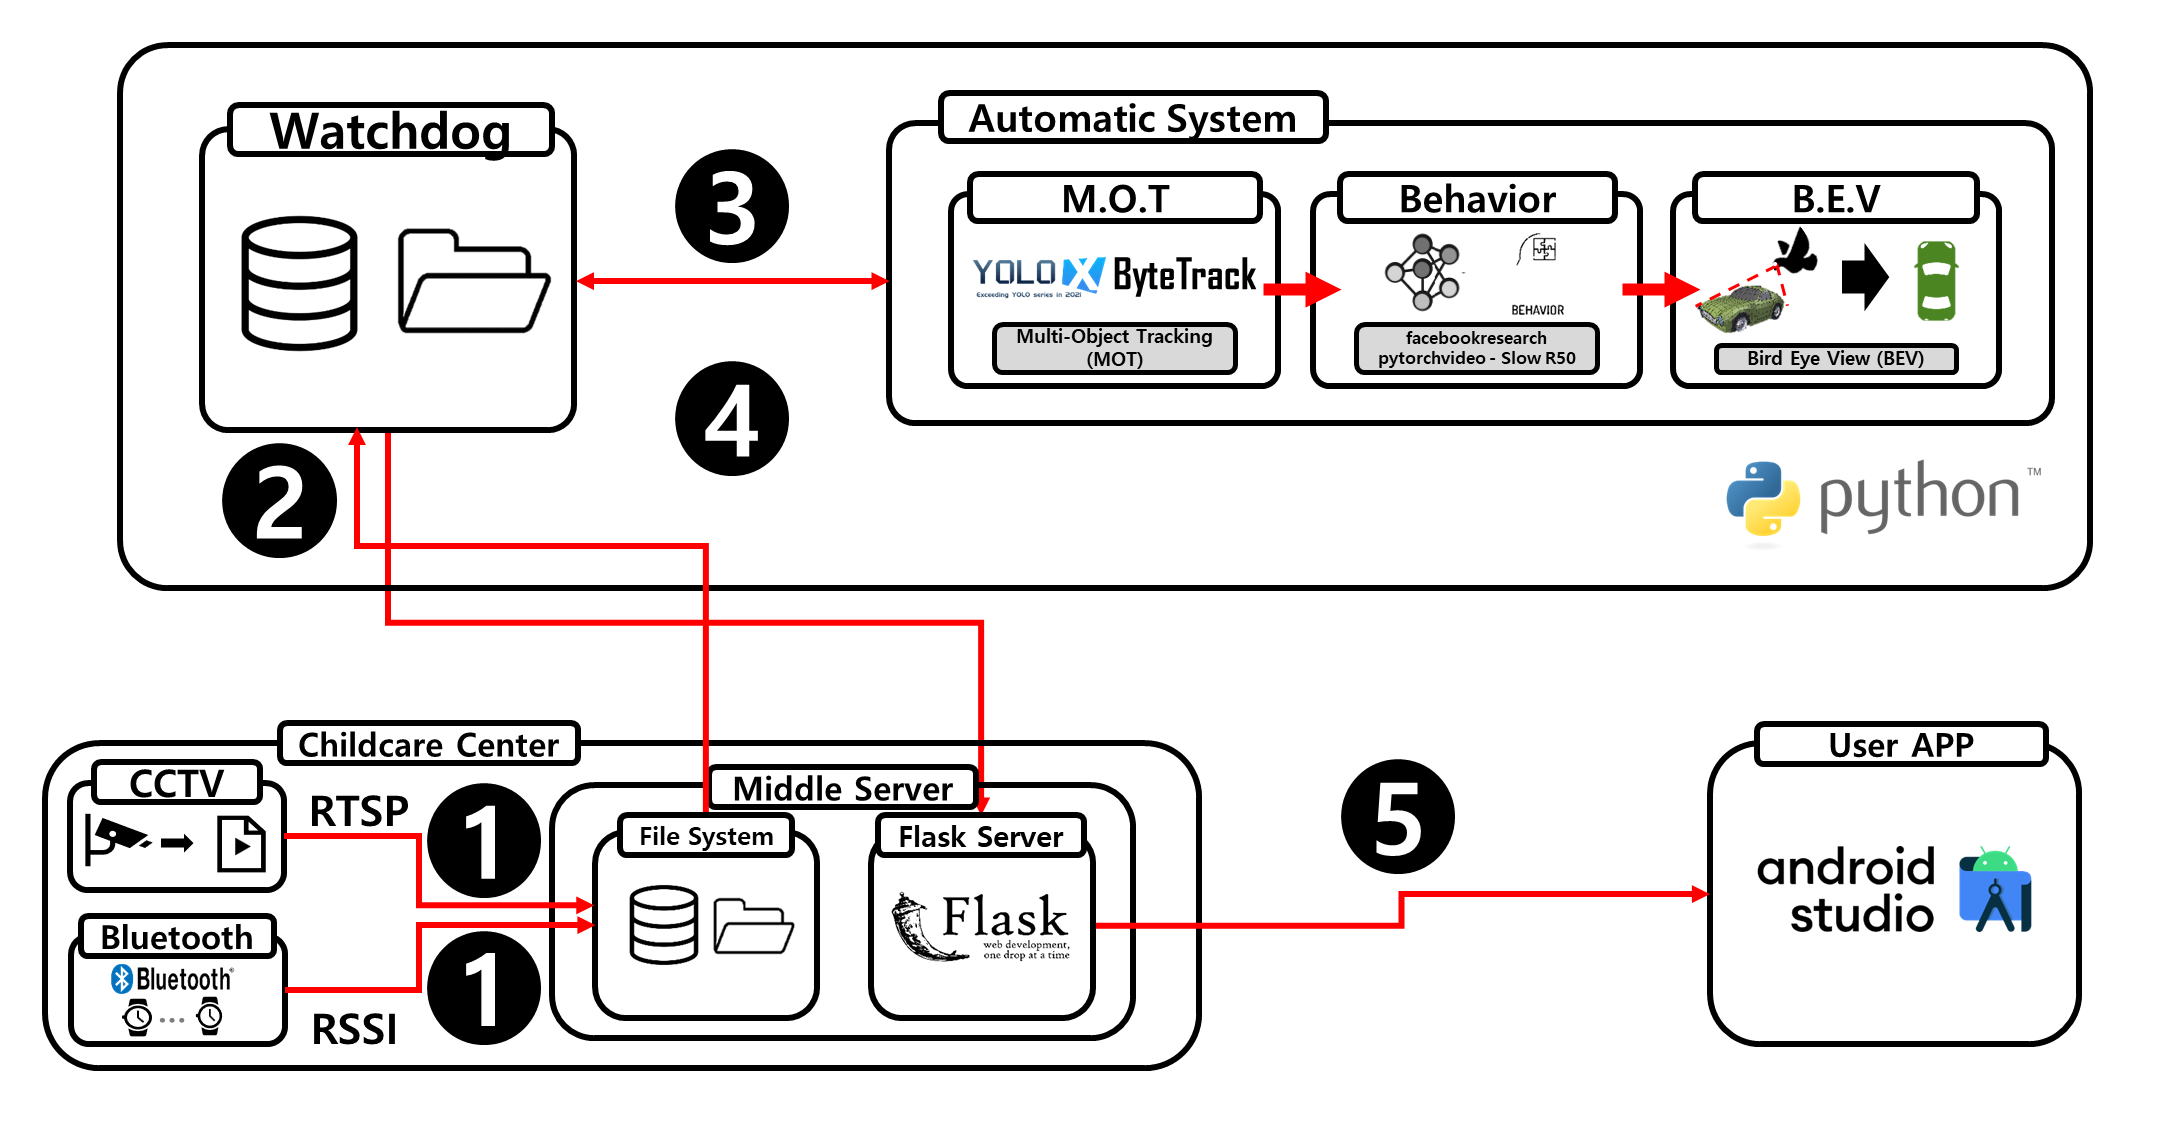
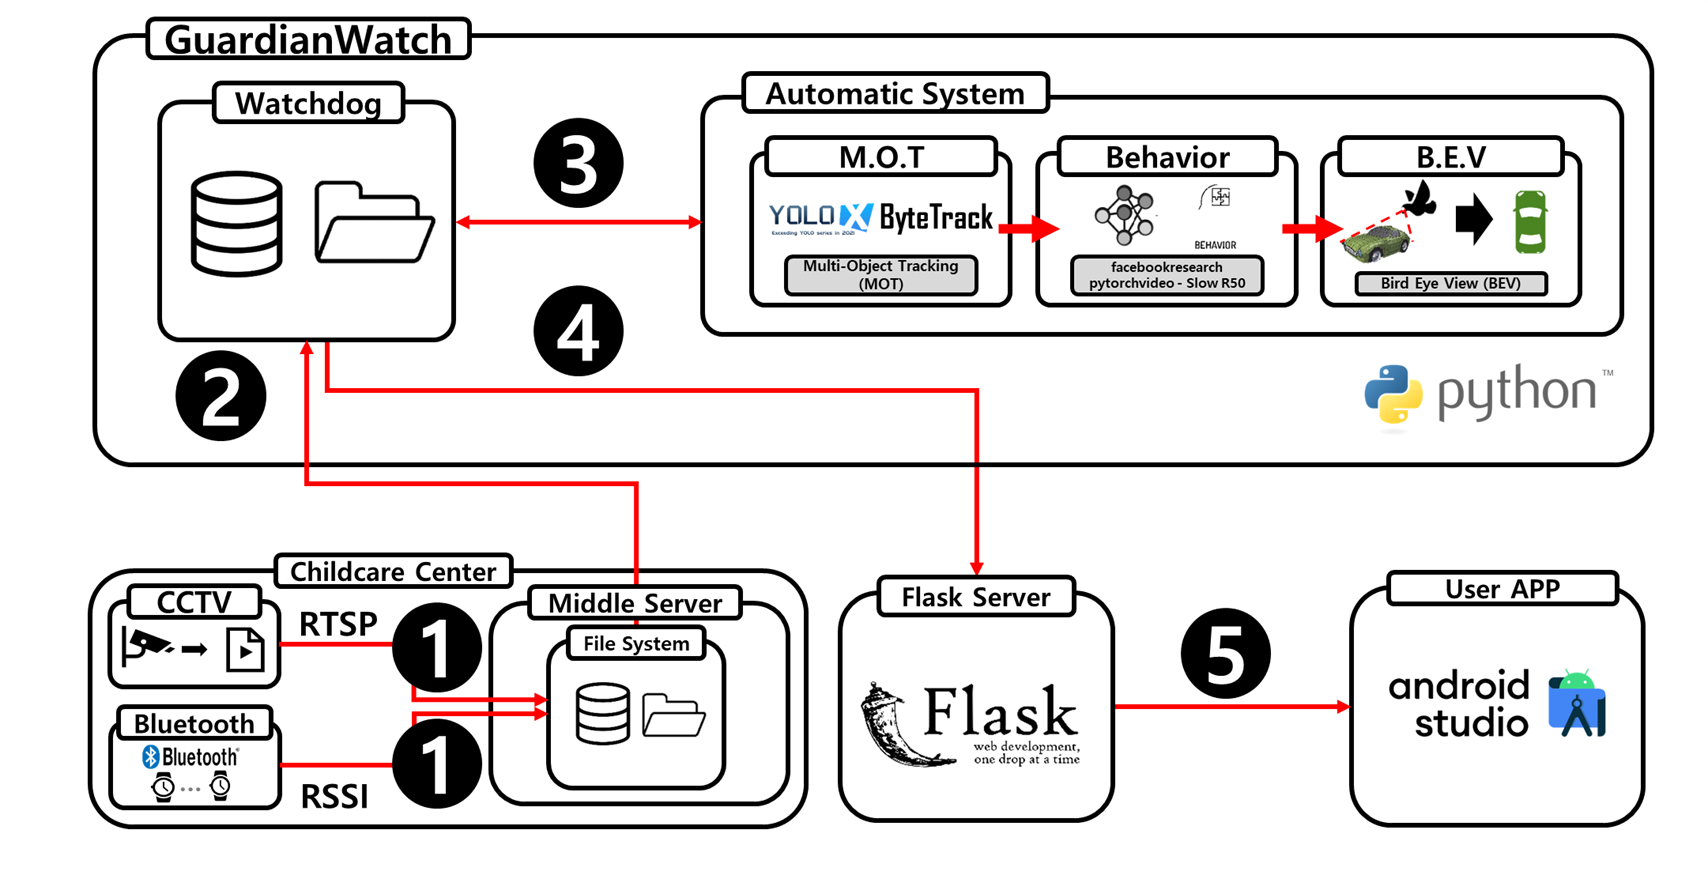
update

Changed region(s): [[0.0, 0.4832, 0.7447, 0.9664], [0.0621, 0.0, 0.2793, 0.151], [0.1552, 0.3624, 0.5896, 0.5134]]

diff --git a/_posts/2023-12-04-NET챌린지.md b/_posts/2023-12-04-NET챌린지.md
@@ -41,15 +41,6 @@ image:
 4. 최종 결과물의 시험 및 검증
 5. 기대효과 및 후속연구 -->
 
-## Index
-
-### 1. Purpose & Necessity[⬇](https://sts07142.github.io/posts/NET챌린지/#1-purpose--necessity)
-### 2. Objective & Output[⬇](https://sts07142.github.io/posts/NET챌린지/#2-objective--output)
-### 3. Result[⬇](https://sts07142.github.io/posts/NET챌린지/#3-result)
-### 4. Expectation[⬇](https://sts07142.github.io/posts/NET챌린지/#4-expectation)
-### 5. Award[⬇](https://sts07142.github.io/posts/NET챌린지/#5-award)
-
-
 <!-- ### 1. 개발 목적 및 필요성
 #### 개발 목적 및 필요성
 
@@ -80,8 +71,14 @@ image:
 #### 유사 시스템과의 공통점
 
 #### 유사 시스템과의 차별점 -->
+## Index
 
-</details>
+### 1. Purpose & Necessity[⬇](https://sts07142.github.io/posts/NET챌린지/#1-purpose--necessity)
+### 2. Objective & Output[⬇](https://sts07142.github.io/posts/NET챌린지/#2-objective--output)
+### 3. Result[⬇](https://sts07142.github.io/posts/NET챌린지/#3-result)
+### 4. Expectation[⬇](https://sts07142.github.io/posts/NET챌린지/#4-expectation)
+### 5. Award[⬇](https://sts07142.github.io/posts/NET챌린지/#5-award)
+
 <details open>
 <summary>
 
@@ -89,41 +86,33 @@ image:
 
 </summary>
 
-## 1-1 #01. Curious of child’s daily life
-* ### Lack of communication skills
-
-
+## - 01. `Curious` of child’s `daily life`
+* ### `Lack` of communication skills
 
 ![Alt text](../assets/img/NET챌린지/image-10.png)
 
-
-
-## 1-1 #02. Increase Abuse in Childcare center
-* ### Check CCTV after abuse
-
-
+## - 02. Increase `Abuse` in Childcare center
+* ### Check `CCTV` after abuse
 
 ![Alt text](../assets/img/NET챌린지/image-11.png)
 
-
-
-## 1-1 #03. Limited CCTV Access
-* ### Limited access due to privacy 
-
-
+## - 03. `Limited` CCTV Access
+* ### Limited access due to `privacy` 
 
 ![Alt text](../assets/img/NET챌린지/image-12.png)
 
-
-
-## 1-2. Introduction
-* ### Intelligent Childcare Center Safety Monitoring System
-
-
+## - `Introduction`
+### **GuardianWatch** = *Guardian* + *Watch*
+- ### : Intelligent Childcare Center Safety Monitoring System.
+## A system that analyzes the `daily life` of a child at a `childcare center`.
+> ### You can check the child's activities. <br>
+### 1. `Heatmap` - Visualization of Where child Stay <br> 
+### 2. `Consumption Calories` - Estimated Calories of Consumption as Moving <br> 
+### 3. `Movement Path` - Visualization of a moving path <br> 
+### 4. `BEV`(**B***ird***E***ye***V***iew*) `Video` - Graphic video of children's activities <sub>**(minimizing personal information)**</sub> <br> 
+### 5. `Notification` - Provide notifications for activities
 
 ![Alt text](../assets/img/NET챌린지/image-6.png)
-
-
 
 <br>
 
@@ -135,25 +124,18 @@ image:
 
 </summary>
 
-## 2-1. Objective
+## - `Objective`
 ### System Archiecture
-
 
 ![Alt text](../assets/img/NET챌린지/image-7.png)
 
-
-
-## 2-2. Detailed Objective
-### Re-ID problem in M.O.T
-
+## - `Detailed` Objective
+### `Re-ID` problem in M.O.T
 
 ![Alt text](../assets/img/NET챌린지/image-8.png)
 
-
-
-## 2-3. Output
+## - `Output`
 ### Re-ID problem in M.O.T
-
 
 ![Alt text](../assets/img/NET챌린지/image-9.png)
 
@@ -205,9 +187,10 @@ image:
 <summary>
 
 # 4. Expectation[⬆](https://sts07142.github.io/posts/NET챌린지/#index)
-## 4-1. Expectation
 
 </summary>
+
+## - `Expectation`
 
 |Understanding the daily life of my child|Minimization of personal information|
 |:--------------------------------------:|:----------------------------------:|
@@ -218,7 +201,7 @@ image:
 |![Alt text](../assets/img/NET챌린지/image-25.png) |![Alt text](../assets/img/NET챌린지/image-26.png)          |
 
 
-## 4-2. Future Work
+## - `Future Work`
 
 |Personal Identification         |Re-ID problem                   |
 |:------------------------------:|:------------------------------:|
